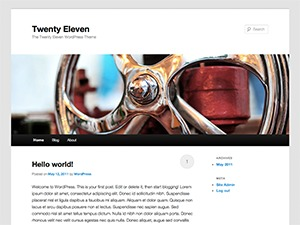
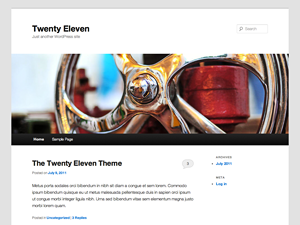
WordPress twentyeleven 1.2

diff --git a/style.css b/style.css
@@ -4,7 +4,7 @@ Theme URI: http://wordpress.org/extend/themes/twentyeleven
 Author: the WordPress team
 Author URI: http://wordpress.org/
 Description: The 2011 theme for WordPress is sophisticated, lightweight, and adaptable. Make it yours with a custom menu, header image, and background -- then go further with available theme options for light or dark color scheme, custom link colors, and three layout choices. Twenty Eleven comes equipped with a Showcase page template that transforms your front page into a showcase to show off your best content, widget support galore (sidebar, three footer areas, and a Showcase page widget area), and a custom "Ephemera" widget to display your Aside, Link, Quote, or Status posts. Included are styles for print and for the admin editor, support for featured images (as custom header images on posts and pages and as large images on featured "sticky" posts), and special styles for six different post formats.
-Version: 1.1
+Version: 1.2
 License: GNU General Public License
 License URI: license.txt
 Tags: dark, light, white, black, gray, one-column, two-columns, left-sidebar, right-sidebar, fixed-width, flexible-width, custom-background, custom-colors, custom-header, custom-menu, editor-style, featured-image-header, featured-images, full-width-template, microformats, post-formats, rtl-language-support, sticky-post, theme-options, translation-ready
@@ -668,6 +668,7 @@ a:hover {
 #branding .with-image #searchform {
 	top: auto;
 	bottom: -27px;
+	max-width: 195px;
 }
 #branding .only-search + #access div {
 	padding-right: 205px;

diff --git a/editor-style.css b/editor-style.css
@@ -7,7 +7,7 @@ html .mceContentBody {
 	max-width: 584px;
 }
 * {
-	color: #333;
+	color: inherit;
 	font: 15px "Helvetica Neue", Helvetica, Arial, sans-serif;
 	font-style: inherit;
 	font-weight: inherit;
@@ -99,16 +99,19 @@ cite {
 big {
 	font-size: 131.25%;
 }
-blockquote {
+.mceContentBody blockquote,
+.mceContentBody blockquote p {
 	font-family: Georgia, "Bitstream Charter", serif !important;
 	font-style: italic !important;
 	font-weight: normal;
 	margin: 0 3em;
 }
-blockquote em, blockquote i, blockquote cite {
+.mceContentBody blockquote em,
+.mceContentBody blockquote i,
+.mceContentBody blockquote cite {
 	font-style: normal;
 }
-blockquote cite {
+.mceContentBody blockquote cite {
 	color: #666;
 	font: 12px "Helvetica Neue", Helvetica, Arial, sans-serif;
 	font-weight: 300;
@@ -236,7 +239,7 @@ td {
 /* Images */
 img[class*="wp-image-"] {
 	height: auto;
-	max-width: 100%;
+	max-width: 97.5%;
 }
 img.size-full {
 	width: auto; /* Prevent stretching of full-size images in IE8 */

diff --git a/inc/theme-options.php b/inc/theme-options.php
@@ -77,11 +77,11 @@ add_filter( 'option_page_capability_twentyeleven_options', 'twentyeleven_option_
  */
 function twentyeleven_theme_options_add_page() {
 	$theme_page = add_theme_page(
-		__( 'Theme Options', 'twentyeleven' ), // Name of page
-		__( 'Theme Options', 'twentyeleven' ), // Label in menu
-		'edit_theme_options',                  // Capability required
-		'theme_options',                       // Menu slug, used to uniquely identify the page
-		'theme_options_render_page'            // Function that renders the options page
+		__( 'Theme Options', 'twentyeleven' ),   // Name of page
+		__( 'Theme Options', 'twentyeleven' ),   // Label in menu
+		'edit_theme_options',                    // Capability required
+		'theme_options',                         // Menu slug, used to uniquely identify the page
+		'twentyeleven_theme_options_render_page' // Function that renders the options page
 	);
 
 	if ( ! $theme_page )
@@ -204,9 +204,9 @@ function twentyeleven_get_theme_options() {
 /**
  * Returns the options array for Twenty Eleven.
  *
- * @since Twenty Eleven 1.0
+ * @since Twenty Eleven 1.2
  */
-function theme_options_render_page() {
+function twentyeleven_theme_options_render_page() {
 	?>
 	<div class="wrap">
 		<?php screen_icon(); ?>

diff --git a/content-status.php b/content-status.php
@@ -16,7 +16,7 @@
 				<h3 class="entry-format"><?php _e( 'Status', 'twentyeleven' ); ?></h3>
 			</hgroup>
 
-			<?php if ( comments_open() ) : ?>
+			<?php if ( comments_open() && ! post_password_required() ) : ?>
 			<div class="comments-link">
 				<?php comments_popup_link( '<span class="leave-reply">' . __( 'Reply', 'twentyeleven' ) . '</span>', _x( '1', 'comments number', 'twentyeleven' ), _x( '%', 'comments number', 'twentyeleven' ) ); ?>
 			</div>

diff --git a/content-aside.php b/content-aside.php
@@ -17,7 +17,7 @@
 				<h3 class="entry-format"><?php _e( 'Aside', 'twentyeleven' ); ?></h3>
 			</hgroup>
 
-			<?php if ( comments_open() ) : ?>
+			<?php if ( comments_open() && ! post_password_required() ) : ?>
 			<div class="comments-link">
 				<?php comments_popup_link( '<span class="leave-reply">' . __( 'Reply', 'twentyeleven' ) . '</span>', _x( '1', 'comments number', 'twentyeleven' ), _x( '%', 'comments number', 'twentyeleven' ) ); ?>
 			</div>

diff --git a/content-image.php b/content-image.php
@@ -16,7 +16,7 @@
 				<h3 class="entry-format"><?php _e( 'Image', 'twentyeleven' ); ?></h3>
 			</hgroup>
 
-			<?php if ( comments_open() ) : ?>
+			<?php if ( comments_open() && ! post_password_required() ) : ?>
 			<div class="comments-link">
 				<?php comments_popup_link( '<span class="leave-reply">' . __( "Reply", 'twentyeleven' ) . '</span>', _x( '1', 'comments number', 'twentyeleven' ), _x( '%', 'comments number', 'twentyeleven' ) ); ?>
 			</div>

diff --git a/content-link.php b/content-link.php
@@ -17,7 +17,7 @@
 				<h3 class="entry-format"><?php _e( 'Link', 'twentyeleven' ); ?></h3>
 			</hgroup>
 
-			<?php if ( comments_open() ) : ?>
+			<?php if ( comments_open() && ! post_password_required() ) : ?>
 			<div class="comments-link">
 				<?php comments_popup_link( '<span class="leave-reply">' . __( 'Reply', 'twentyeleven' ) . '</span>', _x( '1', 'comments number', 'twentyeleven' ), _x( '%', 'comments number', 'twentyeleven' ) ); ?>
 			</div>

diff --git a/content-quote.php b/content-quote.php
@@ -19,7 +19,7 @@
 				<?php twentyeleven_posted_on(); ?>
 			</div><!-- .entry-meta -->
 
-			<?php if ( comments_open() ) : ?>
+			<?php if ( comments_open() && ! post_password_required() ) : ?>
 			<div class="comments-link">
 				<?php comments_popup_link( '<span class="leave-reply">' . __( 'Reply', 'twentyeleven' ) . '</span>', _x( '1', 'comments number', 'twentyeleven' ), _x( '%', 'comments number', 'twentyeleven' ) ); ?>
 			</div>

diff --git a/content.php b/content.php
@@ -25,7 +25,7 @@
 			</div><!-- .entry-meta -->
 			<?php endif; ?>
 
-			<?php if ( comments_open() ) : ?>
+			<?php if ( comments_open() && ! post_password_required() ) : ?>
 			<div class="comments-link">
 				<?php comments_popup_link( '<span class="leave-reply">' . __( 'Reply', 'twentyeleven' ) . '</span>', _x( '1', 'comments number', 'twentyeleven' ), _x( '%', 'comments number', 'twentyeleven' ) ); ?>
 			</div>
